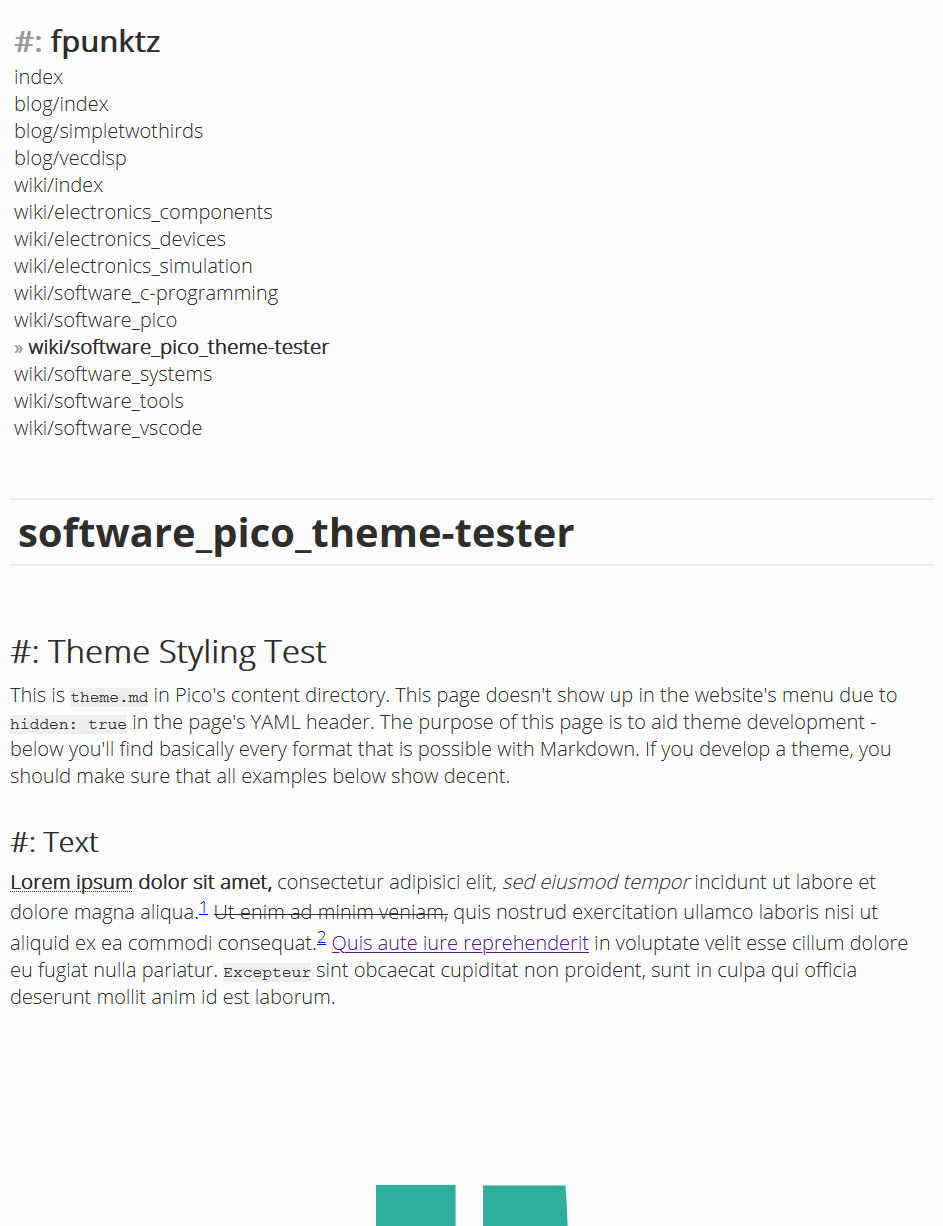
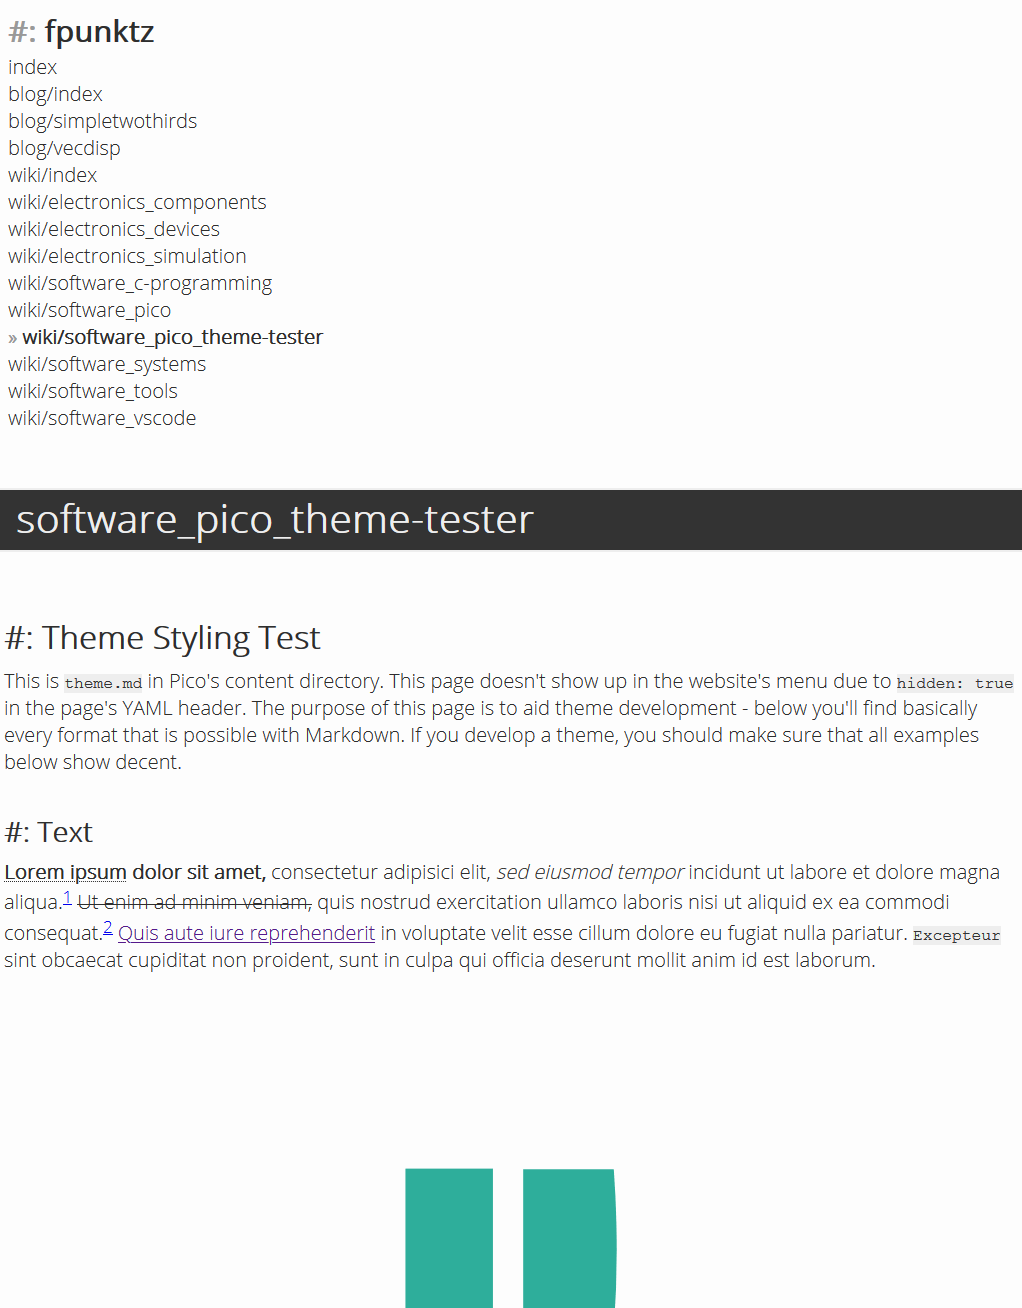
new header design

Changed region(s): [[0.0, 0.0, 1.0, 0.8369], [0.369, 0.8679, 0.6151, 1.0], [0.9533, 0.4959, 0.9841, 0.5269]]

diff --git a/simpletwothirds/css/style.css b/simpletwothirds/css/style.css
@@ -22,7 +22,7 @@ inspired by sonst-was/simpletwo
 }
 
 body {
-    --color-background: #fcfcfc;
+    --color-background: #fdfdfd;
     --color-foreground: #2e2e2e;
     --color-black: #2e2e2e;
     --color-white: #fcfcfc;
@@ -30,10 +30,11 @@ body {
     --color-greymid: #999999;
     --color-greylight: #eeeeee;
     display: grid;
-    grid-template-columns: [col0] minmax(270px, 17vw) [col1] minmax(auto, 1300px) [col2] auto [col3];
+    grid-template-columns: [col0] auto [col1] minmax(270px, 17vw) [col2] minmax(auto, 1200px) [col3] auto [col4];
     grid-template-rows: [row0] min-content [row1] auto [row2];
-    column-gap: 20px;
+    column-gap: 0px;
     row-gap: 20px;
+    margin: 0em 0em 0em 0em;
     font-family: "OpenSans-Light";
     color: var(--color-foreground);
     background-color: var(--color-background);
@@ -157,22 +158,22 @@ img { max-width: 100%; }
 
 .header {
     display: grid;
-    grid-column: col0 / col2;
+    grid-column: col1 / col3;
     grid-row: row0 / row1;
     position:sticky;
-    justify-self: left;
-    left: 15vw;
+    justify-self: stretch;
     word-break: break-all;
+    background: var(--color-greydark);
+    
 }
 .header a {
-    font-family: "OpenSans-Bold";
-    font-weight: normal;
+    font-weight: bold;
     line-height: 1.2em;
-    margin: 0.5em 0.5em 0.15em 1em;
-    padding: 0em 0.2em 0.2em 0.2em;
-    font-size: 4em;
-	text-decoration: none;
-    color: var(--color-black);
+    margin: 0em 0em 0em 0em;
+    padding: 0.15em 0.2em 0.3em 15vw;
+    font-size: 3.6em;
+    text-decoration: none;
+    color: var(--color-greylight);
 }
 
 .footer {
@@ -186,7 +187,7 @@ img { max-width: 100%; }
 
 .navbar {
     display: grid;
-    grid-column: col0 / col1;
+    grid-column: col1 / col2;
     grid-row: row1 / row2;
     position: sticky;
     top: 2em;
@@ -222,16 +223,16 @@ img { max-width: 100%; }
 
 .content {
     display: grid;
-    grid-column: col1 / col2;
+    grid-column: col2 / col3;
     grid-row: row1 / row2;
     margin: 1.2em 1em 0.5em 0.5em;
 }
 
 
 /* MOBILE */
-@media only screen and (max-width: 800px) {
+@media only screen and (max-width: 1100px) {
     body {
-        grid-template-columns: [col0] auto[col1];
+        grid-template-columns: [col1] auto[col2];
         grid-template-rows: [row0] auto [row1] auto [row2] auto [row3];
         grid-column-gap: 10px;
         grid-row-gap: 10px;
@@ -264,7 +265,7 @@ img { max-width: 100%; }
     .image.float-left, .image.float-right { float: none; }
 
     .header {
-        grid-column: col0 / col1;
+        grid-column: col1 / col2;
         grid-row: row1 / row2;
         justify-self: stretch;
         border-top: 2px solid var(--color-greylight);
@@ -273,23 +274,23 @@ img { max-width: 100%; }
     }
 
     .header a {
-        margin: 0.2em 0em 0.2em 0em;
-        padding: 0em 0.2em 0em 0.2em;
+        margin: 0em 0.2em 0em 0.2em;
+        padding: 0.1em 0.2em 0.2em 0.2em;
         font-size: 2em;
     }
 
     .navbar {
-        margin: 0em 0em 2em 0em;
+        margin: 0em 0.2em 2em 0.2em;
         padding: 0em 0em 0em 0em;
         position: static;
-        grid-column: col0 / col1;
+        grid-column: col1 / col2;
         grid-row: row0 / row1;
         border: none;
     }
 
     .content {
-        grid-column: col0 / col1;
+        grid-column: col1 / col2;
         grid-row: row2 / row3;
-        margin: 1em 0em 0em 0em;
+        margin: 1em 0.2em 0em 0.2em;
     }
 }
